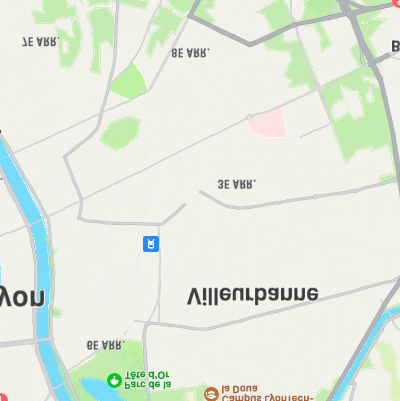
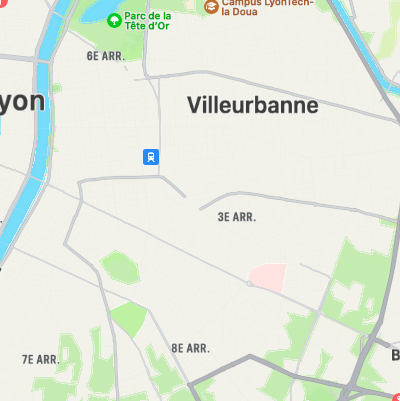
sprint 1

diff --git a/UBER-IF/src/main/java/com/malveillance/uberif/view/GraphicalView.java b/UBER-IF/src/main/java/com/malveillance/uberif/view/GraphicalView.java
@@ -14,9 +14,10 @@ import javafx.fxml.FXML;
 import javafx.collections.FXCollections;
 import javafx.collections.ObservableList;
 import javafx.scene.Cursor;
+import javafx.scene.image.Image;
 import javafx.scene.input.MouseEvent;
+import javafx.scene.layout.*;
 import javafx.scene.shape.Circle;
-import javafx.scene.layout.Pane;
 import javafx.scene.control.Button;
 import javafx.scene.control.ChoiceBox;
 import javafx.scene.control.Label;
@@ -125,24 +126,23 @@ public class GraphicalView extends ShapeVisitor implements Observer {
         // Add a listener
         choiceMap.getSelectionModel().selectedItemProperty().addListener(new ChoiceMenuListener(cityMapController, this, paneController));
 
+
+        // Load initial map
+        this.cityMap = cityMapController.loadNewCityMap((String) choiceMap.getSelectionModel().getSelectedItem());
+        this.cityMap.addObserver(this);
+
         // Add a listener to the width property of mapPane
         mapPane.widthProperty().addListener((observable, oldValue, newValue) -> {
-            update(cityMap, cityMap.getNodes());
+            update(this.cityMap, this.cityMap.getNodes());
         });
 
         // Add a listener to the height property of mapPane
         mapPane.heightProperty().addListener((observable, oldValue, newValue) -> {
-            update(cityMap, cityMap.getNodes());
+            update(this.cityMap, this.cityMap.getNodes());
         });
 
-
-        // Load initial map
-        this.cityMap = cityMapController.loadNewCityMap((String) choiceMap.getSelectionModel().getSelectedItem());
-        cityMap.addObserver(this);
-
-
     }
-    
+
     public GraphicalView() {
         CityMapService cityMapService = new CityMapService();
         PaneService paneService = new PaneService();
@@ -174,19 +174,44 @@ public class GraphicalView extends ShapeVisitor implements Observer {
                     elem.accept(this);
                 }
             }
+
+            this.cityMap = newmap;
+
+            BackgroundImage backgroundImage = new BackgroundImage(
+                    new Image("file:src/main/resources/com/malveillance/uberif/"+cityMap.getMapName()+"Map.png"),
+                    BackgroundRepeat.NO_REPEAT,
+                    BackgroundRepeat.NO_REPEAT,
+                    BackgroundPosition.CENTER,
+                    new BackgroundSize(width, height, false, false, false, false)
+            );
+
+            Background background = new Background(backgroundImage);
+            mapPane.setBackground(background);
+
+            // printMinMaxLatLong();
+
+            paneController.updateScale(newmap.getNodes().keySet());
         }
+
     }
 
     public void visit(Warehouse warehouse) {
         // Implementation to draw warehouse
+        double intersectionX = paneController.getIntersectionX(warehouse.intersection, width);
+        double intersectionY = paneController.getIntersectionY(warehouse.intersection, height);
+        Circle intersectionDot = new Circle(intersectionX, intersectionY, height/200, Color.GREEN);
+        mapPane.getChildren().add(intersectionDot);
     }
 
     public void visit(Intersection intersection) {
         // Implementation to draw intersection
         double intersectionX = paneController.getIntersectionX(intersection, width);
         double intersectionY = paneController.getIntersectionY(intersection, height);
-        Circle intersectionDot = new Circle(intersectionX, intersectionY, 3, Color.RED);
-        mapPane.getChildren().add(intersectionDot);
+        Circle intersectionDot = new Circle(intersectionX, intersectionY, height/250, Color.RED);
+        if ( (intersectionX != paneController.getIntersectionX(cityMap.getWarehouse().intersection, width)) && (intersectionY != paneController.getIntersectionY(cityMap.getWarehouse().intersection, height)))
+            {
+                mapPane.getChildren().add(intersectionDot);
+            }
     }
 
     public void visit(RoadSegment segment) {
@@ -205,5 +230,29 @@ public class GraphicalView extends ShapeVisitor implements Observer {
 
     public CityMap getCityMap() {return this.cityMap; }
 
+    /*
+    public void printMinMaxLatLong() {
+        double minLat = Double.MAX_VALUE;
+        double maxLat = Double.MIN_VALUE;
+        double minLong = Double.MAX_VALUE;
+        double maxLong = Double.MIN_VALUE;
+
+
+        for (Intersection inter : this.cityMap.getNodes().keySet()) {
+            if (inter.getLatitude() < minLat) {
+                minLat = inter.getLatitude();
+            } else if (inter.getLatitude() > maxLat) {
+                maxLat = inter.getLatitude();
+            }
+
+            if (inter.getLongitude() < minLong) {
+                minLong = inter.getLongitude();
+            } else if (inter.getLongitude() > maxLong) {
+                maxLong = inter.getLongitude();
+            }
+        }
+
+        System.out.println("minLat : " + minLat + "\nmaxLat : " + maxLat + "\nminLong : " + minLong + "\nmaxLong : " + maxLong);
+    }*/
 
 }

diff --git a/UBER-IF/src/main/java/com/malveillance/uberif/view/ChoiceMenuListener.java b/UBER-IF/src/main/java/com/malveillance/uberif/view/ChoiceMenuListener.java
@@ -31,14 +31,15 @@ public class ChoiceMenuListener implements ChangeListener<String> {
         CityMap newCityMap = cityMapController.loadNewCityMap(newValue);
         paneController.updateScale(newCityMap.getNodes().keySet());
         /* test Dijkstra */
-        if (newValue.equals("Small Map")) {
-            Tour tour = new Tour();
-            for (Intersection i : newCityMap.getNodes().keySet()) {
-                tour.addDelivery(new Delivery(i, null, null));
-            }
-            AlgoService.calculateOptimalRoute(newCityMap,tour);
-        }
+//        if (newValue.equals("Small Map")) {
+//            Tour tour = new Tour();
+//            for (Intersection i : newCityMap.getNodes().keySet()) {
+//                tour.addDelivery(new Delivery(i, null, null));
+//            }
+//            AlgoService.calculateOptimalRoute(newCityMap,tour);
+//        }
         /* fin test */
+
 
         if (newCityMap != null) {
             graphicalView.update(newCityMap, newCityMap.getNodes());

diff --git a/UBER-IF/src/main/java/com/malveillance/uberif/model/CityMap.java b/UBER-IF/src/main/java/com/malveillance/uberif/model/CityMap.java
@@ -12,6 +12,7 @@ public class CityMap  extends Observable {
     private final Map<Intersection, List<RoadSegment>> nodes;
     private final Warehouse warehouse;
 
+    private String mapName ;
 
 
     public CityMap(Warehouse warehouse, List<Intersection> intersections) {
@@ -23,9 +24,10 @@ public class CityMap  extends Observable {
         }
     }
 
-    public CityMap(Warehouse warehouse, List<Intersection> intersections, List<RoadSegment> segments) {
+    public CityMap(Warehouse warehouse, List<Intersection> intersections, List<RoadSegment> segments, String mapName) {
         this.warehouse = warehouse;
         this.nodes = new HashMap<>();
+        this.mapName = mapName;
 
         for (Intersection node : intersections) {
             this.nodes.put(node,new ArrayList<>());
@@ -84,5 +86,9 @@ public class CityMap  extends Observable {
 
     public int getNbNodes(){
         return nodes.size();
+    }
+
+    public String getMapName() {
+        return mapName;
     }
 }

diff --git a/UBER-IF/src/main/java/com/malveillance/uberif/model/service/CityMapService.java b/UBER-IF/src/main/java/com/malveillance/uberif/model/service/CityMapService.java
@@ -26,7 +26,7 @@ public class CityMapService {
         // Parse the XML file and add items to the ListView
         XmlMapDeserializer parser = new XmlMapDeserializer("src/main/resources/com/malveillance/uberif/" + fileName + "Map.xml");
         CityMap map;
-        map = new CityMap(parser.getWarehouse(), parser.getIntersectionsElements(), parser.getSegmentElements());
+        map = new CityMap(parser.getWarehouse(), parser.getIntersectionsElements(), parser.getSegmentElements(), fileName);
 
         return map;
     }

diff --git a/UBER-IF/src/main/java/com/malveillance/uberif/HelloApplication.java b/UBER-IF/src/main/java/com/malveillance/uberif/HelloApplication.java
@@ -23,7 +23,7 @@ public class HelloApplication extends Application {
         Parent root = fxmlLoader.load();
 
         // Set up the scene and stage
-        Scene scene = new Scene(root, 800, 600);
+        Scene scene = new Scene(root, 800, 650);
         stage.setTitle("UBER'IF");
         stage.setScene(scene);
         stage.show();
